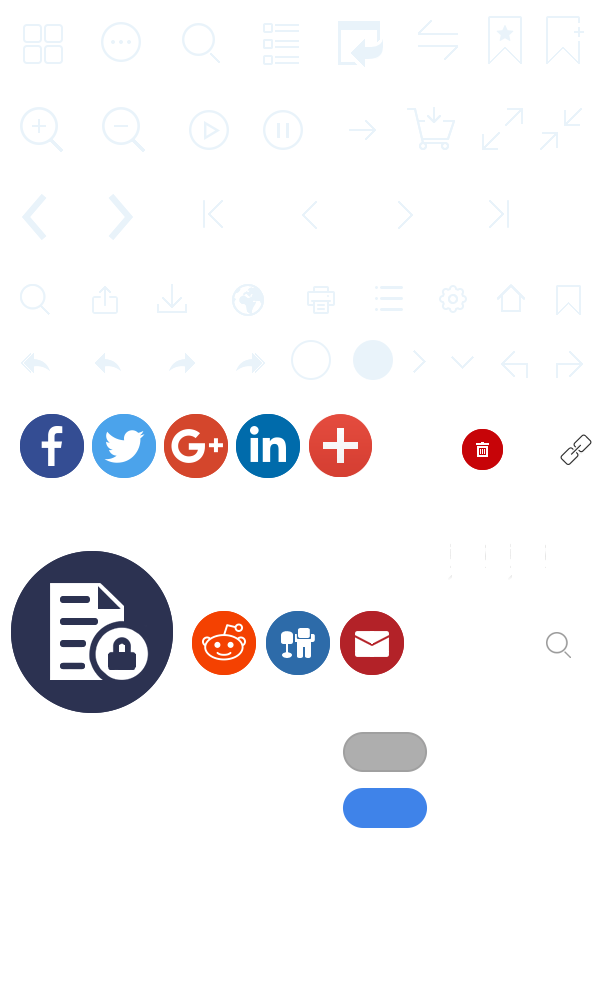
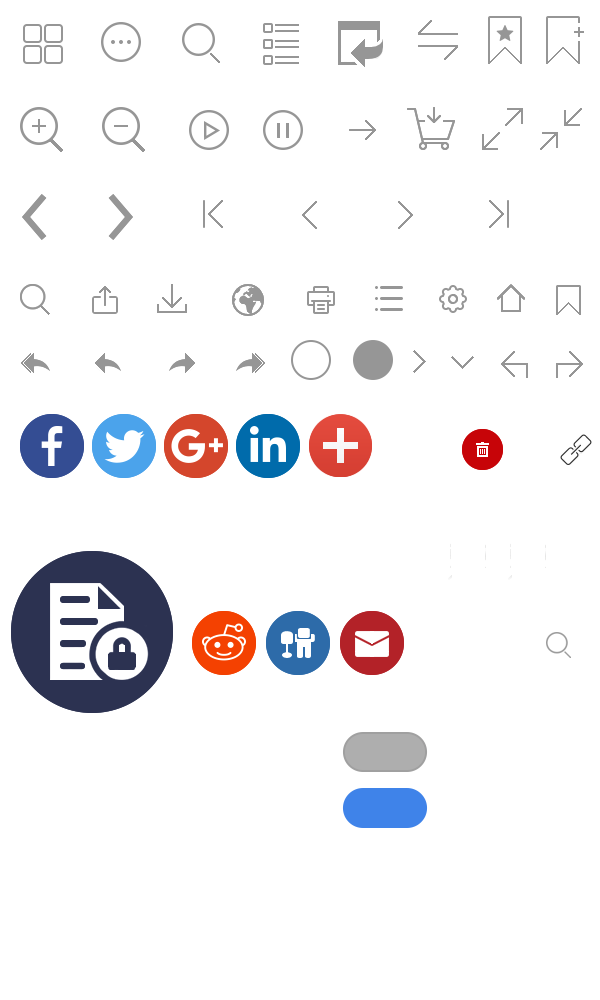
change theme

diff --git a/mobile/javascript/config.js b/mobile/javascript/config.js
@@ -144,13 +144,13 @@ bookConfig.appLogoOpenWindow="Blank";
 bookConfig.logoHeight="40";
 bookConfig.logoPadding="0";
 bookConfig.logoTop="0";
-bookConfig.toolbarColor="#000000";
-bookConfig.iconColor="#ECF5FB";
+bookConfig.toolbarColor="#242424";
+bookConfig.iconColor="#A0A0A0";
 bookConfig.pageNumColor="#000000";
 bookConfig.iconFontColor="#FFFFFF";
 bookConfig.toolbarAlwaysShow="No";
 bookConfig.formFontColor="#FFFFFF";
-bookConfig.formBackgroundColor="#27181A";
+bookConfig.formBackgroundColor="#494949";
 bookConfig.ToolBarAlpha="1";
 bookConfig.showBookInstructionOnStart="false";
 bookConfig.InstructionsButtonVisible="Show";
@@ -176,7 +176,7 @@ bookConfig.leastSearchChar="3";
 bookConfig.searchKeywordFontColor="#FFB000";
 bookConfig.searchHightlightColor="#FFFF00";
 bookConfig.SelectTextButtonVisible="Enable";
-bookConfig.PrintButtonVisible="No";
+bookConfig.PrintButtonVisible="Yes";
 bookConfig.BackgroundSoundButtonVisible="Enable";
 bookConfig.FlipSound="No";
 bookConfig.BackgroundSoundLoop="-1";
@@ -254,7 +254,7 @@ bookConfig.LinkAlpha="0.2";
 bookConfig.OpenWindow="Blank";
 bookConfig.showLinkHint="No";
 
-bookConfig.macBookVersion = "DDUTqrDOaejuADXYutMGVWknFGTdrlEKWdmsIAbcluNMWfvgMBfavhHCaZvgGCXeorDAYUtiGEVamrOGWWkrMIZSkoNIUfjmAEWaiuEMZSjnJH36C3f4d5_";
+bookConfig.macBookVersion = "GLbUhsBGQVnkMMeSrgJNTYlvADTQtoCCbdvkOOSZmtPNYauqBHSamhFGSVnhLGSblpBPYWsjJNZUhhEJaXhuOEbWsmMJVfppLHaaouPOTfrhBL11d50EF8_";
 bookConfig.Html5Template = "Metro";
 bookConfig.UIBaseURL="mobile/";
 bookConfig.isFlipPdf=false;
@@ -268,8 +268,8 @@ bookConfig.normalPath="./files/mobile/";
 bookConfig.largePath="./files/mobile/";
 bookConfig.productName="Flip PDF";
 bookConfig.useTheAliCloudChart=false;
-bookConfig.MidBgColor="#6a8af7";
-bookConfig.bookmarkCR = "60295ced4ef170ac58c2818fe17ad5621d34e4c6";
+bookConfig.MidBgColor="#a8eb11";
+bookConfig.bookmarkCR = "2b34aa133da56a3bcf242933249ed496c7f54811";
 ;function orgt(s){ return binl2hex(core_hx(str2binl(s), s.length * chrsz));};
 bookConfig.thumbPath="./files/thumb/";
 var fliphtml5_pages=[{"l":"./files/mobile/1.jpg","n":"./files/mobile/1.jpg","t":"./files/thumb/1.jpg"},{"l":"./files/mobile/2.jpg","n":"./files/mobile/2.jpg","t":"./files/thumb/2.jpg"},{"l":"./files/mobile/3.jpg","n":"./files/mobile/3.jpg","t":"./files/thumb/3.jpg"},{"l":"./files/mobile/4.jpg","n":"./files/mobile/4.jpg","t":"./files/thumb/4.jpg"},{"l":"./files/mobile/5.jpg","n":"./files/mobile/5.jpg","t":"./files/thumb/5.jpg"},{"l":"./files/mobile/6.jpg","n":"./files/mobile/6.jpg","t":"./files/thumb/6.jpg"},{"l":"./files/mobile/7.jpg","n":"./files/mobile/7.jpg","t":"./files/thumb/7.jpg"},{"l":"./files/mobile/8.jpg","n":"./files/mobile/8.jpg","t":"./files/thumb/8.jpg"},{"l":"./files/mobile/9.jpg","n":"./files/mobile/9.jpg","t":"./files/thumb/9.jpg"},{"l":"./files/mobile/10.jpg","n":"./files/mobile/10.jpg","t":"./files/thumb/10.jpg"},{"l":"./files/mobile/11.jpg","n":"./files/mobile/11.jpg","t":"./files/thumb/11.jpg"},{"l":"./files/mobile/12.jpg","n":"./files/mobile/12.jpg","t":"./files/thumb/12.jpg"},{"l":"./files/mobile/13.jpg","n":"./files/mobile/13.jpg","t":"./files/thumb/13.jpg"},{"l":"./files/mobile/14.jpg","n":"./files/mobile/14.jpg","t":"./files/thumb/14.jpg"},{"l":"./files/mobile/15.jpg","n":"./files/mobile/15.jpg","t":"./files/thumb/15.jpg"},{"l":"./files/mobile/16.jpg","n":"./files/mobile/16.jpg","t":"./files/thumb/16.jpg"},{"l":"./files/mobile/17.jpg","n":"./files/mobile/17.jpg","t":"./files/thumb/17.jpg"},{"l":"./files/mobile/18.jpg","n":"./files/mobile/18.jpg","t":"./files/thumb/18.jpg"},{"l":"./files/mobile/19.jpg","n":"./files/mobile/19.jpg","t":"./files/thumb/19.jpg"},{"l":"./files/mobile/20.jpg","n":"./files/mobile/20.jpg","t":"./files/thumb/20.jpg"},{"l":"./files/mobile/21.jpg","n":"./files/mobile/21.jpg","t":"./files/thumb/21.jpg"},{"l":"./files/mobile/22.jpg","n":"./files/mobile/22.jpg","t":"./files/thumb/22.jpg"},{"l":"./files/mobile/23.jpg","n":"./files/mobile/23.jpg","t":"./files/thumb/23.jpg"},{"l":"./files/mobile/24.jpg","n":"./files/mobile/24.jpg","t":"./files/thumb/24.jpg"},{"l":"./files/mobile/25.jpg","n":"./files/mobile/25.jpg","t":"./files/thumb/25.jpg"},{"l":"./files/mobile/26.jpg","n":"./files/mobile/26.jpg","t":"./files/thumb/26.jpg"},{"l":"./files/mobile/27.jpg","n":"./files/mobile/27.jpg","t":"./files/thumb/27.jpg"},{"l":"./files/mobile/28.jpg","n":"./files/mobile/28.jpg","t":"./files/thumb/28.jpg"},{"l":"./files/mobile/29.jpg","n":"./files/mobile/29.jpg","t":"./files/thumb/29.jpg"},{"l":"./files/mobile/30.jpg","n":"./files/mobile/30.jpg","t":"./files/thumb/30.jpg"},{"l":"./files/mobile/31.jpg","n":"./files/mobile/31.jpg","t":"./files/thumb/31.jpg"},{"l":"./files/mobile/32.jpg","n":"./files/mobile/32.jpg","t":"./files/thumb/32.jpg"},{"l":"./files/mobile/33.jpg","n":"./files/mobile/33.jpg","t":"./files/thumb/33.jpg"},{"l":"./files/mobile/34.jpg","n":"./files/mobile/34.jpg","t":"./files/thumb/34.jpg"},{"l":"./files/mobile/35.jpg","n":"./files/mobile/35.jpg","t":"./files/thumb/35.jpg"},{"l":"./files/mobile/36.jpg","n":"./files/mobile/36.jpg","t":"./files/thumb/36.jpg"},{"l":"./files/mobile/37.jpg","n":"./files/mobile/37.jpg","t":"./files/thumb/37.jpg"},{"l":"./files/mobile/38.jpg","n":"./files/mobile/38.jpg","t":"./files/thumb/38.jpg"},{"l":"./files/mobile/39.jpg","n":"./files/mobile/39.jpg","t":"./files/thumb/39.jpg"},{"l":"./files/mobile/40.jpg","n":"./files/mobile/40.jpg","t":"./files/thumb/40.jpg"},{"l":"./files/mobile/41.jpg","n":"./files/mobile/41.jpg","t":"./files/thumb/41.jpg"},{"l":"./files/mobile/42.jpg","n":"./files/mobile/42.jpg","t":"./files/thumb/42.jpg"},{"l":"./files/mobile/43.jpg","n":"./files/mobile/43.jpg","t":"./files/thumb/43.jpg"},{"l":"./files/mobile/44.jpg","n":"./files/mobile/44.jpg","t":"./files/thumb/44.jpg"},{"l":"./files/mobile/45.jpg","n":"./files/mobile/45.jpg","t":"./files/thumb/45.jpg"},{"l":"./files/mobile/46.jpg","n":"./files/mobile/46.jpg","t":"./files/thumb/46.jpg"},{"l":"./files/mobile/47.jpg","n":"./files/mobile/47.jpg","t":"./files/thumb/47.jpg"},{"l":"./files/mobile/48.jpg","n":"./files/mobile/48.jpg","t":"./files/thumb/48.jpg"},{"l":"./files/mobile/49.jpg","n":"./files/mobile/49.jpg","t":"./files/thumb/49.jpg"},{"l":"./files/mobile/50.jpg","n":"./files/mobile/50.jpg","t":"./files/thumb/50.jpg"},{"l":"./files/mobile/51.jpg","n":"./files/mobile/51.jpg","t":"./files/thumb/51.jpg"},{"l":"./files/mobile/52.jpg","n":"./files/mobile/52.jpg","t":"./files/thumb/52.jpg"},{"l":"./files/mobile/53.jpg","n":"./files/mobile/53.jpg","t":"./files/thumb/53.jpg"},{"l":"./files/mobile/54.jpg","n":"./files/mobile/54.jpg","t":"./files/thumb/54.jpg"},{"l":"./files/mobile/55.jpg","n":"./files/mobile/55.jpg","t":"./files/thumb/55.jpg"},{"l":"./files/mobile/56.jpg","n":"./files/mobile/56.jpg","t":"./files/thumb/56.jpg"},{"l":"./files/mobile/57.jpg","n":"./files/mobile/57.jpg","t":"./files/thumb/57.jpg"},{"l":"./files/mobile/58.jpg","n":"./files/mobile/58.jpg","t":"./files/thumb/58.jpg"},{"l":"./files/mobile/59.jpg","n":"./files/mobile/59.jpg","t":"./files/thumb/59.jpg"},{"l":"./files/mobile/60.jpg","n":"./files/mobile/60.jpg","t":"./files/thumb/60.jpg"},{"l":"./files/mobile/61.jpg","n":"./files/mobile/61.jpg","t":"./files/thumb/61.jpg"},{"l":"./files/mobile/62.jpg","n":"./files/mobile/62.jpg","t":"./files/thumb/62.jpg"},{"l":"./files/mobile/63.jpg","n":"./files/mobile/63.jpg","t":"./files/thumb/63.jpg"},{"l":"./files/mobile/64.jpg","n":"./files/mobile/64.jpg","t":"./files/thumb/64.jpg"},{"l":"./files/mobile/65.jpg","n":"./files/mobile/65.jpg","t":"./files/thumb/65.jpg"},{"l":"./files/mobile/66.jpg","n":"./files/mobile/66.jpg","t":"./files/thumb/66.jpg"},{"l":"./files/mobile/67.jpg","n":"./files/mobile/67.jpg","t":"./files/thumb/67.jpg"},{"l":"./files/mobile/68.jpg","n":"./files/mobile/68.jpg","t":"./files/thumb/68.jpg"},{"l":"./files/mobile/69.jpg","n":"./files/mobile/69.jpg","t":"./files/thumb/69.jpg"},{"l":"./files/mobile/70.jpg","n":"./files/mobile/70.jpg","t":"./files/thumb/70.jpg"},{"l":"./files/mobile/71.jpg","n":"./files/mobile/71.jpg","t":"./files/thumb/71.jpg"},{"l":"./files/mobile/72.jpg","n":"./files/mobile/72.jpg","t":"./files/thumb/72.jpg"},{"l":"./files/mobile/73.jpg","n":"./files/mobile/73.jpg","t":"./files/thumb/73.jpg"},{"l":"./files/mobile/74.jpg","n":"./files/mobile/74.jpg","t":"./files/thumb/74.jpg"},{"l":"./files/mobile/75.jpg","n":"./files/mobile/75.jpg","t":"./files/thumb/75.jpg"},{"l":"./files/mobile/76.jpg","n":"./files/mobile/76.jpg","t":"./files/thumb/76.jpg"},{"l":"./files/mobile/77.jpg","n":"./files/mobile/77.jpg","t":"./files/thumb/77.jpg"},{"l":"./files/mobile/78.jpg","n":"./files/mobile/78.jpg","t":"./files/thumb/78.jpg"},{"l":"./files/mobile/79.jpg","n":"./files/mobile/79.jpg","t":"./files/thumb/79.jpg"},{"l":"./files/mobile/80.jpg","n":"./files/mobile/80.jpg","t":"./files/thumb/80.jpg"},{"l":"./files/mobile/81.jpg","n":"./files/mobile/81.jpg","t":"./files/thumb/81.jpg"},{"l":"./files/mobile/82.jpg","n":"./files/mobile/82.jpg","t":"./files/thumb/82.jpg"},{"l":"./files/mobile/83.jpg","n":"./files/mobile/83.jpg","t":"./files/thumb/83.jpg"},{"l":"./files/mobile/84.jpg","n":"./files/mobile/84.jpg","t":"./files/thumb/84.jpg"},{"l":"./files/mobile/85.jpg","n":"./files/mobile/85.jpg","t":"./files/thumb/85.jpg"},{"l":"./files/mobile/86.jpg","n":"./files/mobile/86.jpg","t":"./files/thumb/86.jpg"},{"l":"./files/mobile/87.jpg","n":"./files/mobile/87.jpg","t":"./files/thumb/87.jpg"},{"l":"./files/mobile/88.jpg","n":"./files/mobile/88.jpg","t":"./files/thumb/88.jpg"},{"l":"./files/mobile/89.jpg","n":"./files/mobile/89.jpg","t":"./files/thumb/89.jpg"},{"l":"./files/mobile/90.jpg","n":"./files/mobile/90.jpg","t":"./files/thumb/90.jpg"},{"l":"./files/mobile/91.jpg","n":"./files/mobile/91.jpg","t":"./files/thumb/91.jpg"},{"l":"./files/mobile/92.jpg","n":"./files/mobile/92.jpg","t":"./files/thumb/92.jpg"},{"l":"./files/mobile/93.jpg","n":"./files/mobile/93.jpg","t":"./files/thumb/93.jpg"},{"l":"./files/mobile/94.jpg","n":"./files/mobile/94.jpg","t":"./files/thumb/94.jpg"},{"l":"./files/mobile/95.jpg","n":"./files/mobile/95.jpg","t":"./files/thumb/95.jpg"},{"l":"./files/mobile/96.jpg","n":"./files/mobile/96.jpg","t":"./files/thumb/96.jpg"}];
